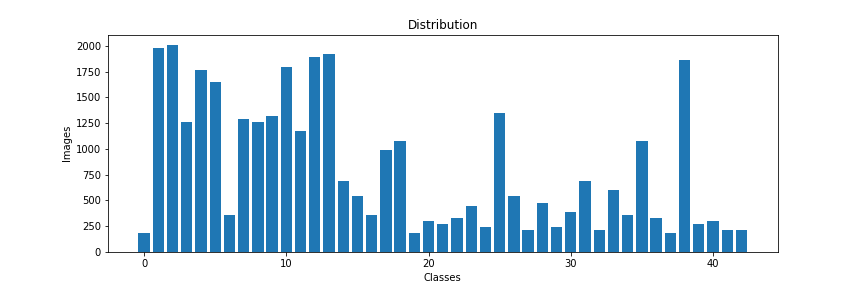
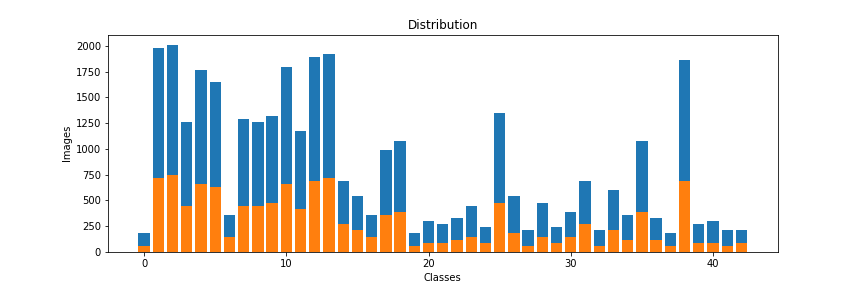
Distribution graph contain not both training and testing datasets

Changed region(s): [[0.1562, 0.5938, 0.875, 0.875]]

diff --git a/utils/plot.py b/utils/plot.py
@@ -17,13 +17,19 @@ def plot_train_images(X_train, y_train, n_classes, is_gray = False):
     plt.savefig('./out/train_images.png')
     plt.show()
 
-def plot_distribution(X_train, y_train, n_classes):
-    samples_count = []
+def plot_distribution(X_train, y_train, X_test, y_test, n_classes):
+    train_samples_count = []
+    test_samples_count = []
+
     for i in range(0, n_classes):
         x_selected = X_train[y_train == i]
-        samples_count.append(len(x_selected))
+        train_samples_count.append(len(x_selected))
+        x_selected = X_test[y_test == i]
+        test_samples_count.append(len(x_selected))
+
     plt.figure(figsize=(12, 4))
-    plt.bar(range(0, n_classes), samples_count)
+    plt.bar(range(0, n_classes), train_samples_count)
+    plt.bar(range(0, n_classes), test_samples_count)
     plt.title('Distribution')
     plt.xlabel('Classes')
     plt.ylabel('Images')
